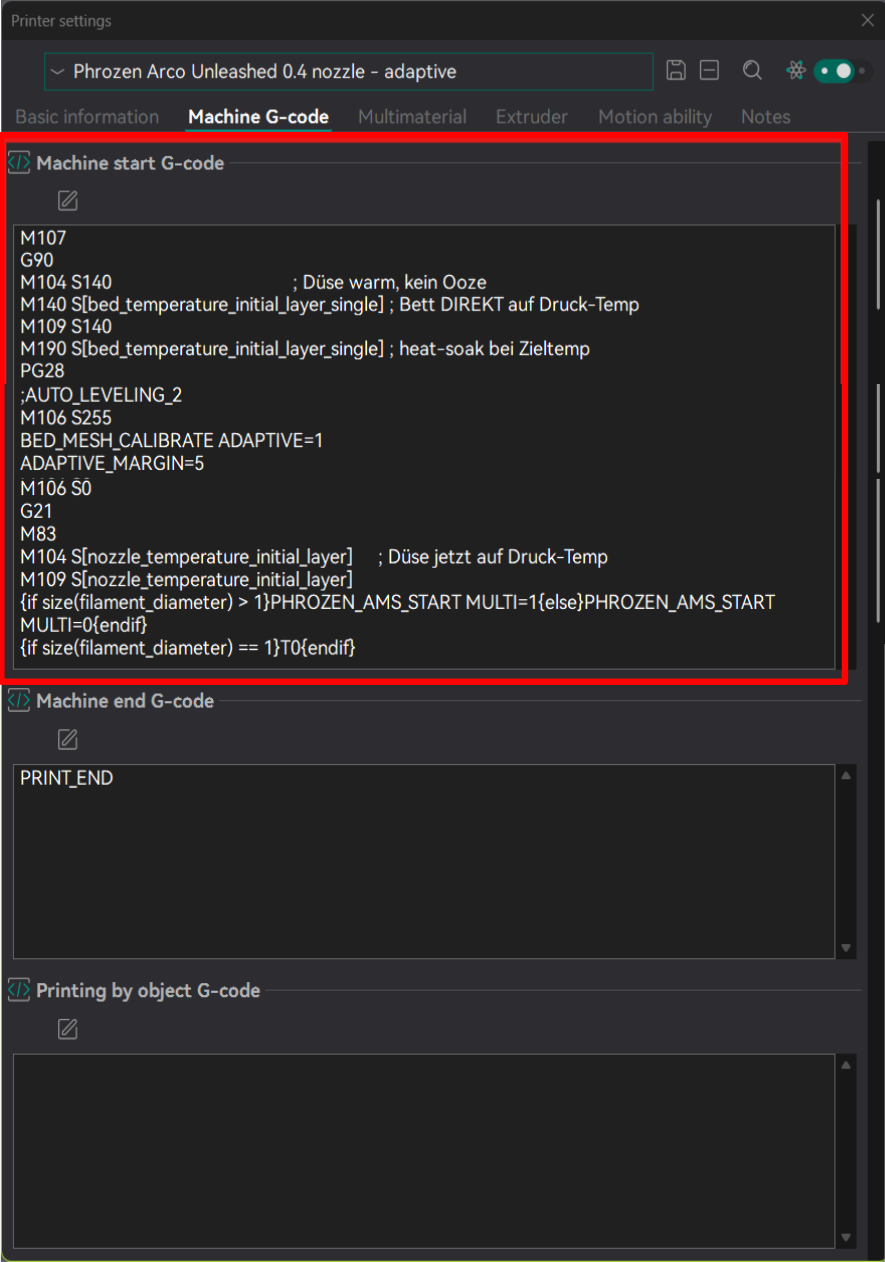
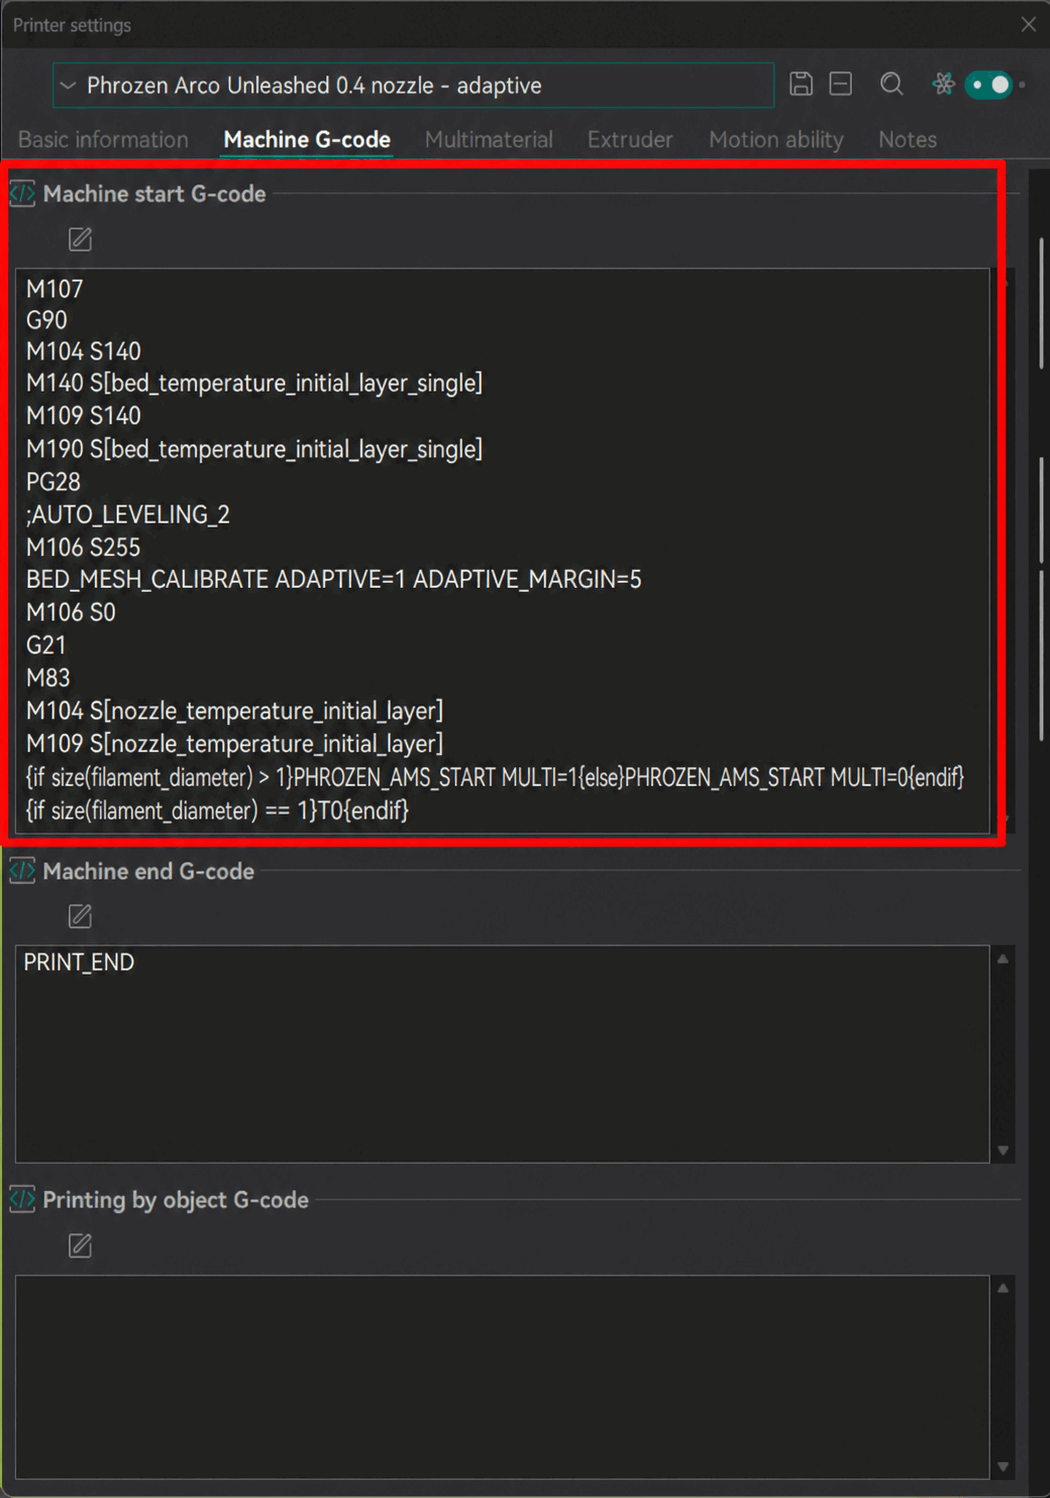
Newer G-code screenshot; drop the mode table the reader cannot use
THE SCREENSHOT is the current one, at 1050x1498 instead of 885x1262 -- and smaller than the file it
replaces, 210 KB against 223 KB, because a UI screenshot with 86,000 colours reduces to a 256-colour
palette with no visible loss. Checked at 1:1 on the code area before committing: the G-code is the
point of that image, and it stays crisp. It ships on the USB stick and the documentation site, so
the megabyte it would otherwise have cost is a real megabyte.

THE MODE TABLE went. It listed P0 M1/M2/M3 against every combination of flag and slice -- internal
mode commands nobody types, in a section whose whole promise three paragraphs earlier is that you
do not have to think about this. What the reader needs is that the switch happens by itself, and
that slicing multicolour with no AMS stops with an error rather than starting something it cannot
finish. Both now fit in a sentence.

One line survives from that table, because it is the only outcome that does NOT announce itself:
with the AMS fitted and a single-colour slice the printer runs an endless spool, so the other slots
must hold the same colour or a long print changes shade partway through with no warning. The kit's
own config flags that with an exclamation mark; it existed nowhere else in the documentation.

P0 M1/M2/M3 now appears nowhere in the README (it was in four places), including a cross-reference
that pointed at the table for an explanation the table no longer gave.

Changed region(s): [[0.0, 0.0309, 1.0, 1.0], [0.9153, 0.8344, 0.9763, 0.8653], [0.8847, 0.0309, 0.9153, 0.0618]]

diff --git a/README.html b/README.html
@@ -653,10 +653,11 @@ the <code>P0</code> gcode). <code>AddOn.cfg</code> provides clickable
 <code>AMS_ON</code>/<code>AMS_OFF</code>/<code>AMS_STATUS</code> macros
 for Mainsail (needs the <code>gcode_shell_command</code> extension). It
 also writes a macro-readable <code>ams</code> flag that <strong>steers
-OrcaSlicer</strong> automatically (P0 M1/M2/M3 picked at print start —
-see <a href="#orcaslicer--multicolor--ams-auto-mode">OrcaSlicer</a>).
-Note: a factory-NEW AMS additionally needs one-time provisioning
-(firmware flash/pairing).</li>
+OrcaSlicer</strong> automatically — the print mode is picked at print
+start, see <a
+href="#orcaslicer--multicolor--ams-auto-mode">OrcaSlicer</a>. Note: a
+factory-NEW AMS additionally needs one-time provisioning (firmware
+flash/pairing).</li>
 </ul>
 </details>
 <p><a id="beacon-as-new-probing-device-for-meshing--experimental"></a></p>
@@ -941,45 +942,16 @@ Setting the fields by hand instead, or checking an older profile against
 the current one, is <strong><a href="MANUAL.html#machine-gcode">MANUAL ›
 Step 10</a></strong>: all four given in full, with a screenshot of the
 tab each belongs in.</p>
-<p>The macro <code>PHROZEN_AMS_START</code> is what reads the flag and
-decides:</p>
-<table>
-<colgroup>
-<col style="width: 33%" />
-<col style="width: 33%" />
-<col style="width: 33%" />
-</colgroup>
-<thead>
-<tr>
-<th>AMS flag</th>
-<th>Slice</th>
-<th>Print starts in</th>
-</tr>
-</thead>
-<tbody>
-<tr>
-<td><strong>on</strong></td>
-<td>multicolor</td>
-<td><code>P0 M1</code> (color changes via <code>Tn</code>)</td>
-</tr>
-<tr>
-<td><strong>on</strong></td>
-<td>single-color</td>
-<td><code>P0 M2</code> (auto-refill / endless spool — load the
-<strong>same</strong> color)</td>
-</tr>
-<tr>
-<td><strong>off</strong></td>
-<td>single-color</td>
-<td><code>P0 M3</code> (standalone, toolhead runout protection)</td>
-</tr>
-<tr>
-<td><strong>off</strong></td>
-<td>multicolor</td>
-<td>aborts with an error (multicolor needs the AMS)</td>
-</tr>
-</tbody>
-</table>
+<p>All of that happens inside the start G-code:
+<code>PHROZEN_AMS_START</code> reads the flag and the print begins in
+the right mode. Nothing to pick, nothing to remember — and if you slice
+multicolour with no AMS attached, it stops and says so rather than
+starting something it cannot finish.</p>
+<p>One thing does <strong>not</strong> announce itself, though: with the
+AMS fitted and a single-colour slice, the printer runs an
+<strong>endless spool</strong> and refills from the other slots when one
+runs out. <strong>Load them with the same colour</strong> — otherwise a
+long print changes shade partway through, and nothing warns you.</p>
 <p>The start G-code heats the <strong>bed straight to print
 temperature</strong> and holds the <strong>nozzle at a probe-safe 140
 °C</strong> through home and probe, so it cannot ooze onto the load

diff --git a/README.md b/README.md
@@ -258,7 +258,7 @@ update exists.
   `~/hdlDat/Phrozen_Dev.json` work-mode; the runtime lever is the `P0` gcode). `AddOn.cfg` provides
   clickable `AMS_ON`/`AMS_OFF`/`AMS_STATUS` macros for Mainsail (needs the `gcode_shell_command`
   extension). It also writes a macro-readable `ams` flag that **steers OrcaSlicer** automatically
-  (P0 M1/M2/M3 picked at print start — see [OrcaSlicer](#orcaslicer--multicolor--ams-auto-mode)).
+  — the print mode is picked at print start, see [OrcaSlicer](#orcaslicer--multicolor--ams-auto-mode).
   Note: a factory-NEW AMS additionally needs one-time provisioning (firmware flash/pairing).
 
 </details>
@@ -470,14 +470,13 @@ in — import it via *File → Import → Import Configs…*. Setting the fields
 older profile against the current one, is **[MANUAL › Step 10](MANUAL.md#machine-gcode)**: all four given in
 full, with a screenshot of the tab each belongs in.
 
-The macro `PHROZEN_AMS_START` is what reads the flag and decides:
+All of that happens inside the start G-code: `PHROZEN_AMS_START` reads the flag and the print begins in
+the right mode. Nothing to pick, nothing to remember — and if you slice multicolour with no AMS attached,
+it stops and says so rather than starting something it cannot finish.
 
-| AMS flag | Slice | Print starts in |
-|---|---|---|
-| **on** | multicolor | `P0 M1` (color changes via `Tn`) |
-| **on** | single-color | `P0 M2` (auto-refill / endless spool — load the **same** color) |
-| **off** | single-color | `P0 M3` (standalone, toolhead runout protection) |
-| **off** | multicolor | aborts with an error (multicolor needs the AMS) |
+One thing does **not** announce itself, though: with the AMS fitted and a single-colour slice, the printer
+runs an **endless spool** and refills from the other slots when one runs out. **Load them with the same
+colour** — otherwise a long print changes shade partway through, and nothing warns you.
 
 The start G-code heats the **bed straight to print temperature** and holds the **nozzle at a probe-safe
 140 °C** through home and probe, so it cannot ooze onto the load cell. **`G30`** then loads your saved
